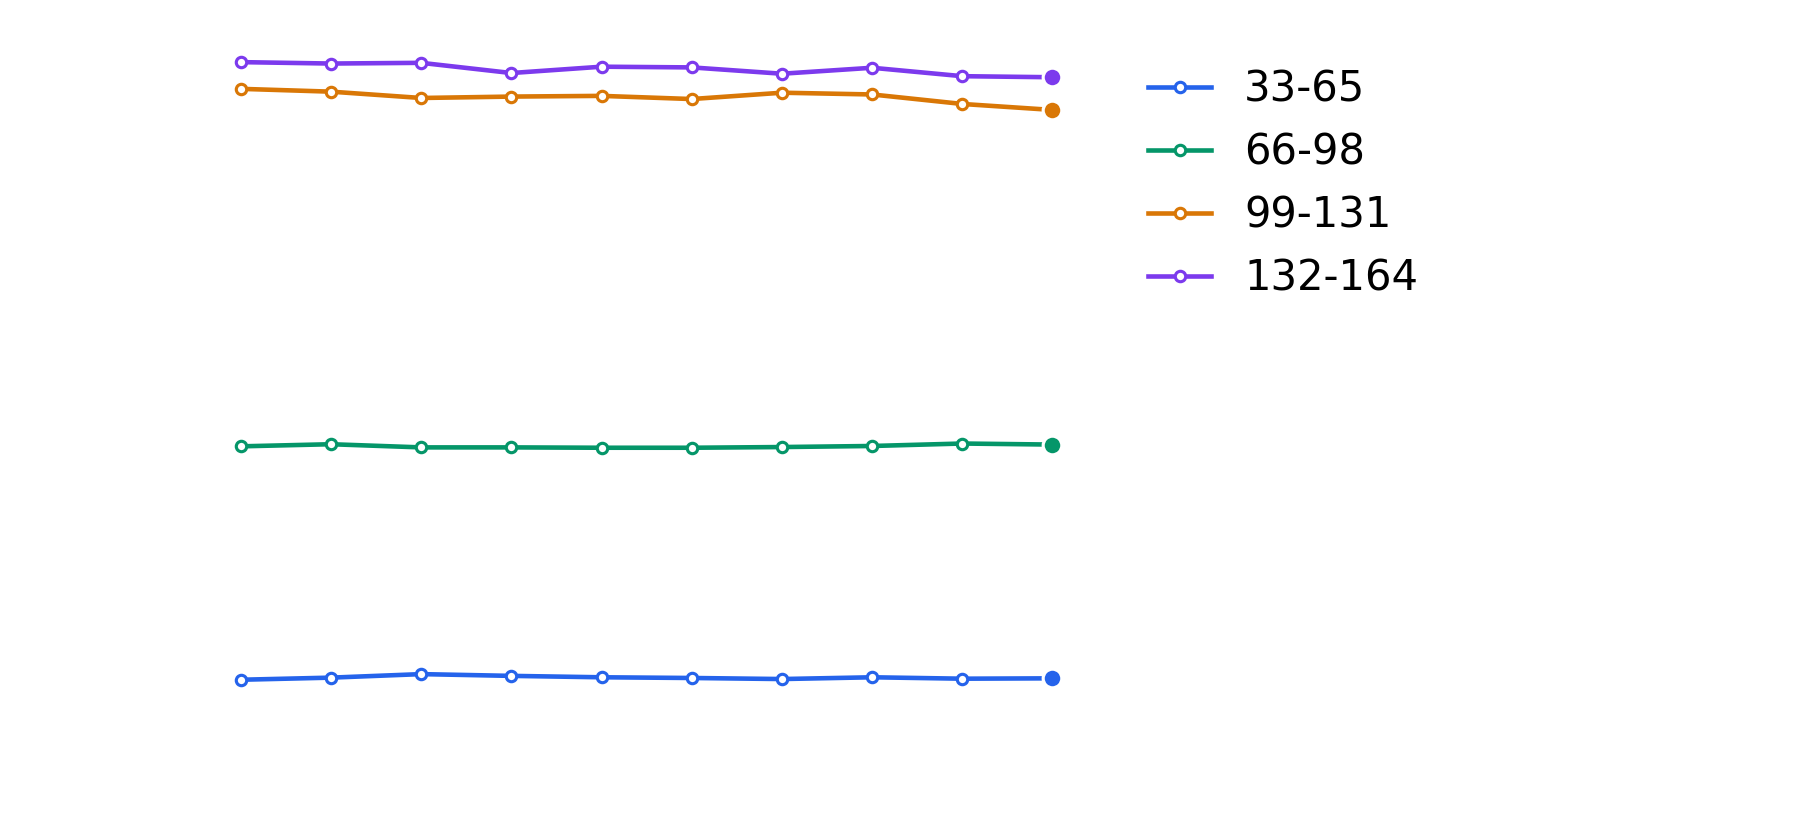
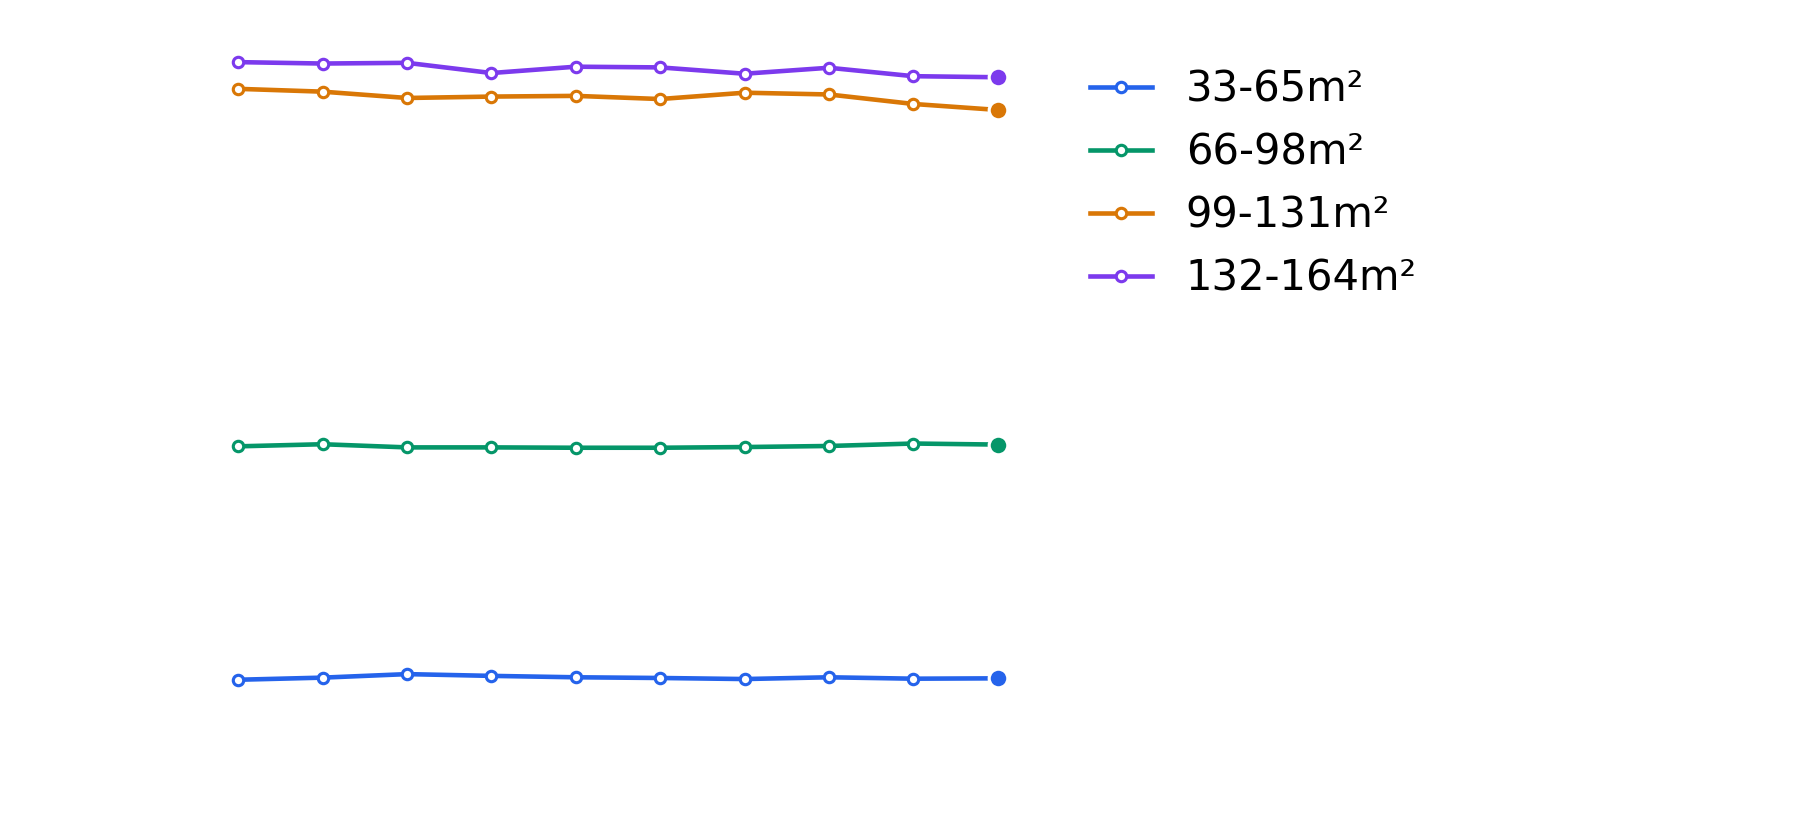
Update highlight cards to show region names, change 평 to m²
- Show region names (지역명) instead of complex names for top increase/decrease
- Change area unit label from 평 to m² in charts and highlight cards

diff --git a/reports/live.html b/reports/live.html
@@ -666,11 +666,22 @@
   }
 
   function updateHighlightCards(cols, rows){
-    const nameIdx = cols.indexOf("complex_name");
+    // 지역 데이터 사용 (region1, region2, region3)
+    const r1Idx = cols.indexOf("region1");
+    const r2Idx = cols.indexOf("region2");
+    const r3Idx = cols.indexOf("region3");
     const pctIdx = cols.indexOf("avg_change_pct");
     const binIdx = cols.indexOf("spc_bin");
     const cntIdx = cols.indexOf("curr_cnt");
-    if (nameIdx < 0 || pctIdx < 0) return;
+    if (pctIdx < 0) return;
+
+    // 지역명 생성 함수
+    const getRegionName = (r) => {
+      const r1 = String(r.region1 || r[r1Idx] || "").trim();
+      const r2 = String(r.region2 || r[r2Idx] || "").trim();
+      const r3 = String(r.region3 || r[r3Idx] || "").trim();
+      return [r2, r3].filter(Boolean).join(" ") || r1;
+    };
 
     // ALL_BINS 행만 사용하여 TOP 찾기
     const filtered = rows.filter(r => {
@@ -682,25 +693,31 @@
     let maxPct = -Infinity, minPct = Infinity;
 
     filtered.forEach(r => {
-      const name = r.complex_name || r[nameIdx] || "";
+      const name = getRegionName(r);
       const pctStr = String(r.avg_change_pct || r[pctIdx] || "0%").replace("%","").replace("+","");
       const pct = parseFloat(pctStr) || 0;
-      if (pct > maxPct) { maxPct = pct; topUp = { name, pct }; }
-      if (pct < minPct) { minPct = pct; topDown = { name, pct }; }
+      if (pct > maxPct) { maxPct = pct; topUp = { name, pct, row: r }; }
+      if (pct < minPct) { minPct = pct; topDown = { name, pct, row: r }; }
     });
 
-    // 평형대별 매물수 가져오기
-    const getBinCounts = (complexName) => {
+    // 면적대별 매물수 가져오기 (㎡ 단위로 표시)
+    const getBinCounts = (targetRow) => {
       const binOrder = ["33-65", "66-98", "99-131", "132-164"];
       const counts = [];
+      const r1 = String(targetRow.region1 || "").trim();
+      const r2 = String(targetRow.region2 || "").trim();
+      const r3 = String(targetRow.region3 || "").trim();
+
       binOrder.forEach(bin => {
         const row = rows.find(r =>
-          (r.complex_name || r[nameIdx]) === complexName &&
+          String(r.region1 || "").trim() === r1 &&
+          String(r.region2 || "").trim() === r2 &&
+          String(r.region3 || "").trim() === r3 &&
           (r.spc_bin || r[binIdx]) === bin
         );
         if (row) {
           const cnt = parseInt(row.curr_cnt || row[cntIdx] || 0) || 0;
-          counts.push(`${bin}평:${cnt}`);
+          counts.push(`${bin}㎡:${cnt}`);
         }
       });
       return counts;
@@ -717,7 +734,7 @@
       upName.textContent = topUp.name;
       upPct.textContent = (topUp.pct >= 0 ? "+" : "") + topUp.pct.toFixed(1) + "%";
       if (upBins) {
-        const counts = getBinCounts(topUp.name);
+        const counts = getBinCounts(topUp.row);
         upBins.innerHTML = counts.map(c => `<span>${c}</span>`).join("");
       }
     }
@@ -725,7 +742,7 @@
       downName.textContent = topDown.name;
       downPct.textContent = (topDown.pct >= 0 ? "+" : "") + topDown.pct.toFixed(1) + "%";
       if (downBins) {
-        const counts = getBinCounts(topDown.name);
+        const counts = getBinCounts(topDown.row);
         downBins.innerHTML = counts.map(c => `<span>${c}</span>`).join("");
       }
     }
@@ -774,8 +791,8 @@
     initRegionFilters({ cols: region.cols||[], rows: regionRows });
     initComplexFilters({ cols: complex.cols||[], rows: complexRows });
 
-    // 상승/하락 TOP 업데이트
-    updateHighlightCards(complex.cols||[], complexRows);
+    // 상승/하락 TOP 업데이트 (지역별 데이터 사용)
+    updateHighlightCards(region.cols||[], regionRows);
 
     // 데이터 수정 (가능하면 latest CSV의 Last-Modified, KST YYYY-MM-DD 형식)
     const dataMTime = document.getElementById("dataMTime");
